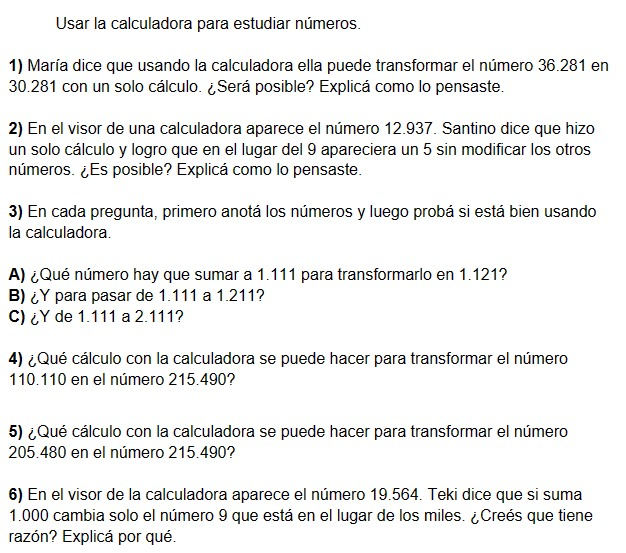
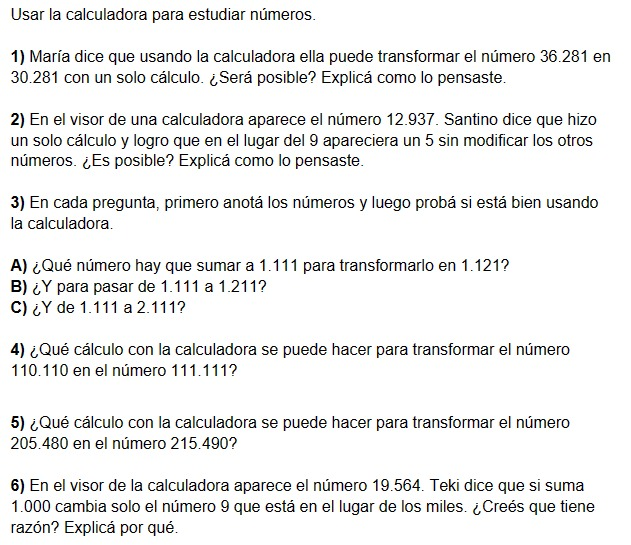
On branch main  Your branch is up to date with 'origin/main'.
Changes to be committed:
	modified:   Archivos/2-5-24/1.jpg
	modified:   Archivos/2-5-24/matematicas.docx
	modified:   Materias/matematicas.html

diff --git a/Materias/matematicas.html b/Materias/matematicas.html
@@ -160,7 +160,7 @@ B) ¿Hay una sola posibilidad?
 		<b>B)</b> ¿Y para pasar de 1.111 a 1.211? <br>
 		<b>C)</b> ¿Y de 1.111 a 2.111? 
 	<br><br>
-		<b>4)</b> ¿Qué cálculo con la calculadora se puede hacer para transformar el número 110.110 en el número 215.490? 
+		<b>4)</b> ¿Qué cálculo con la calculadora se puede hacer para transformar el número 110.110 en el número 111.111? 
 	<br>
 		<b>5)</b> ¿Qué cálculo con la calculadora se puede hacer para transformar el número 205.480 en el número 215.490? 
 	<br>
